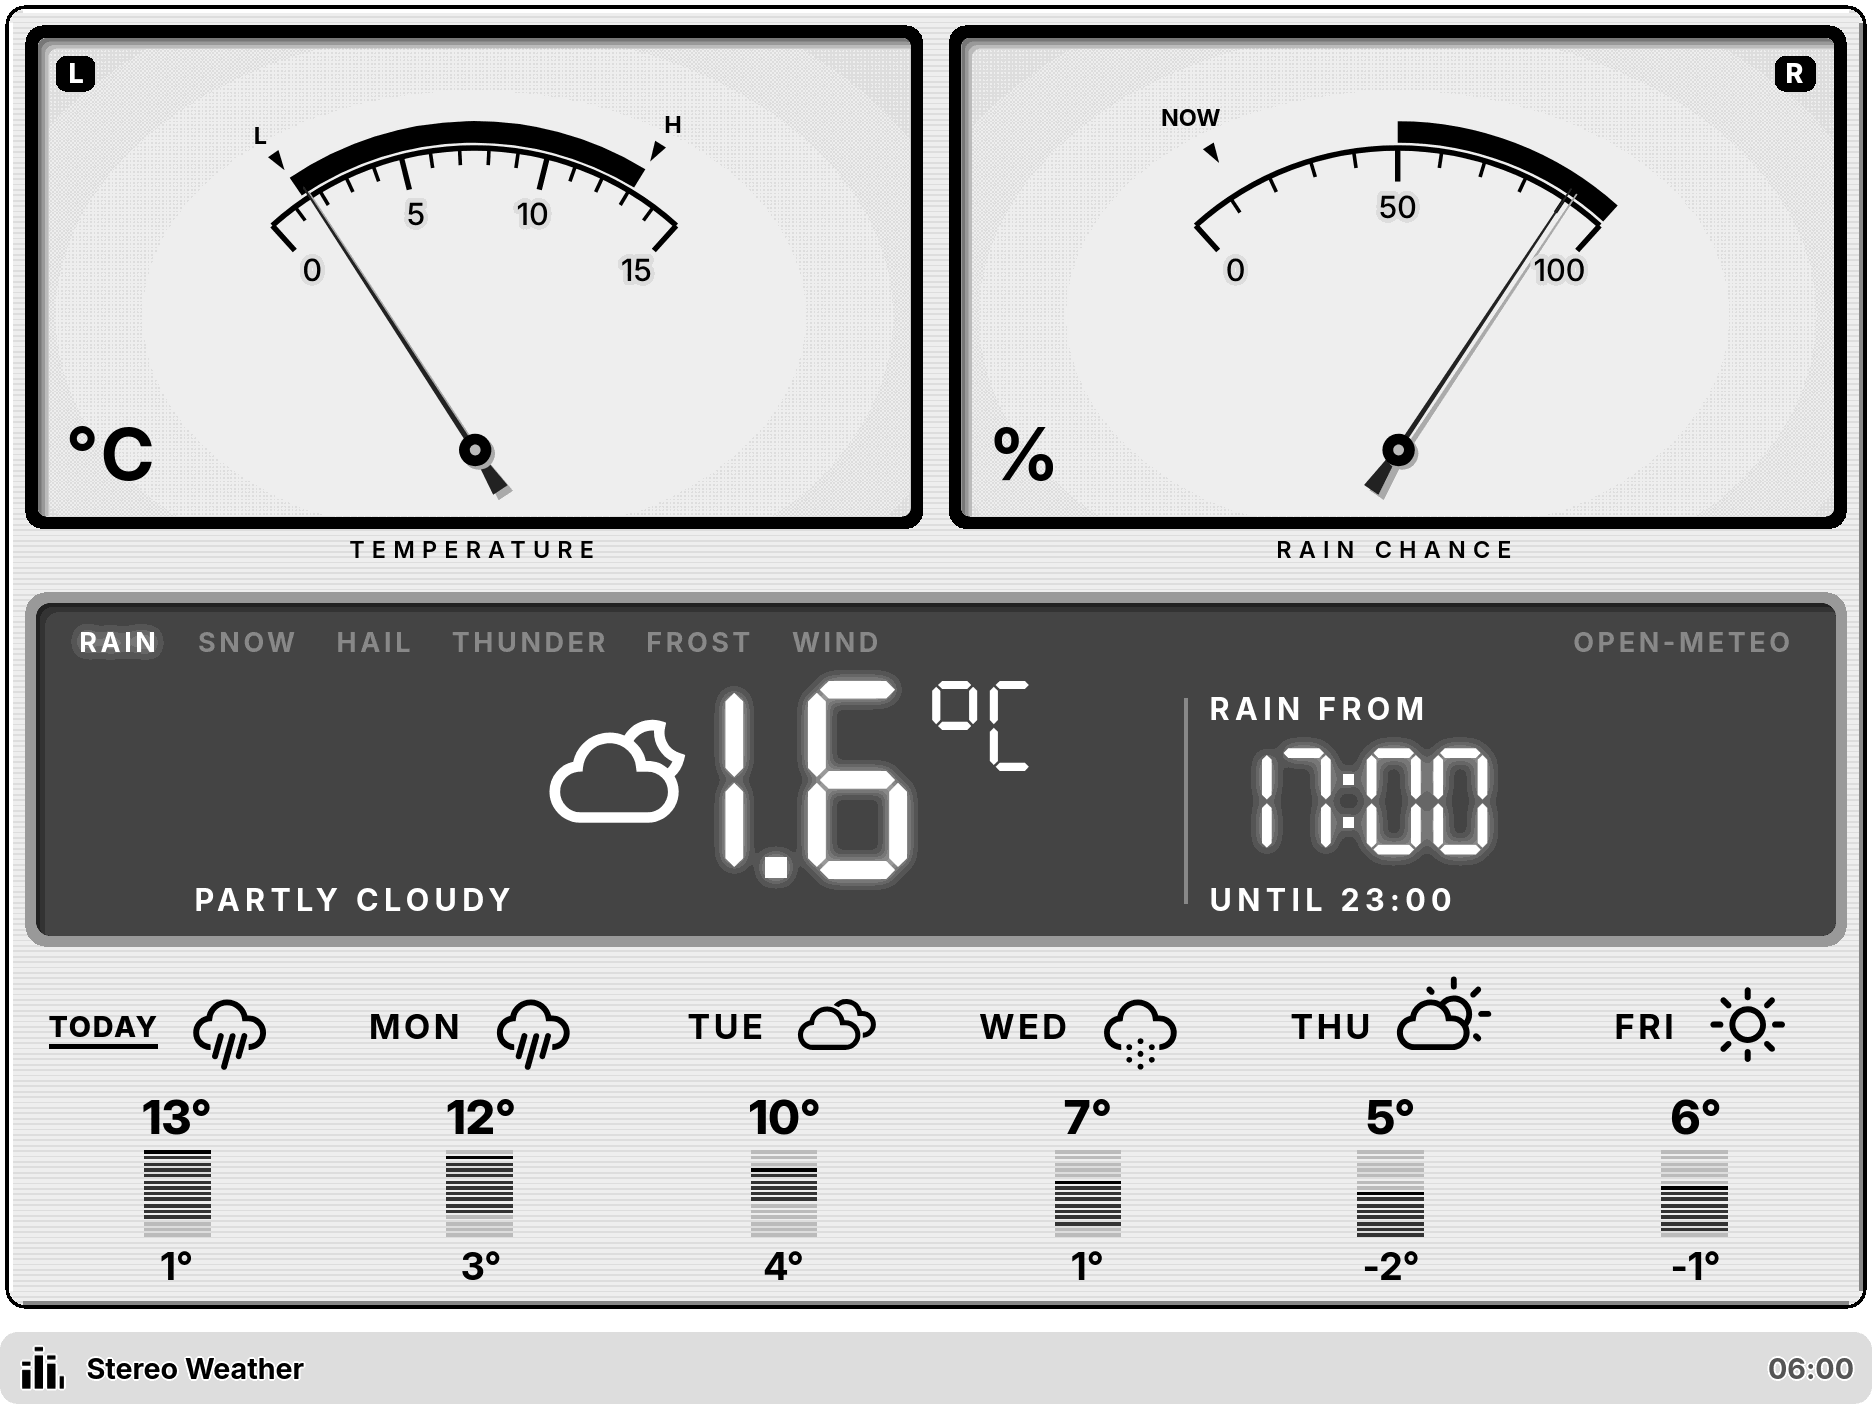
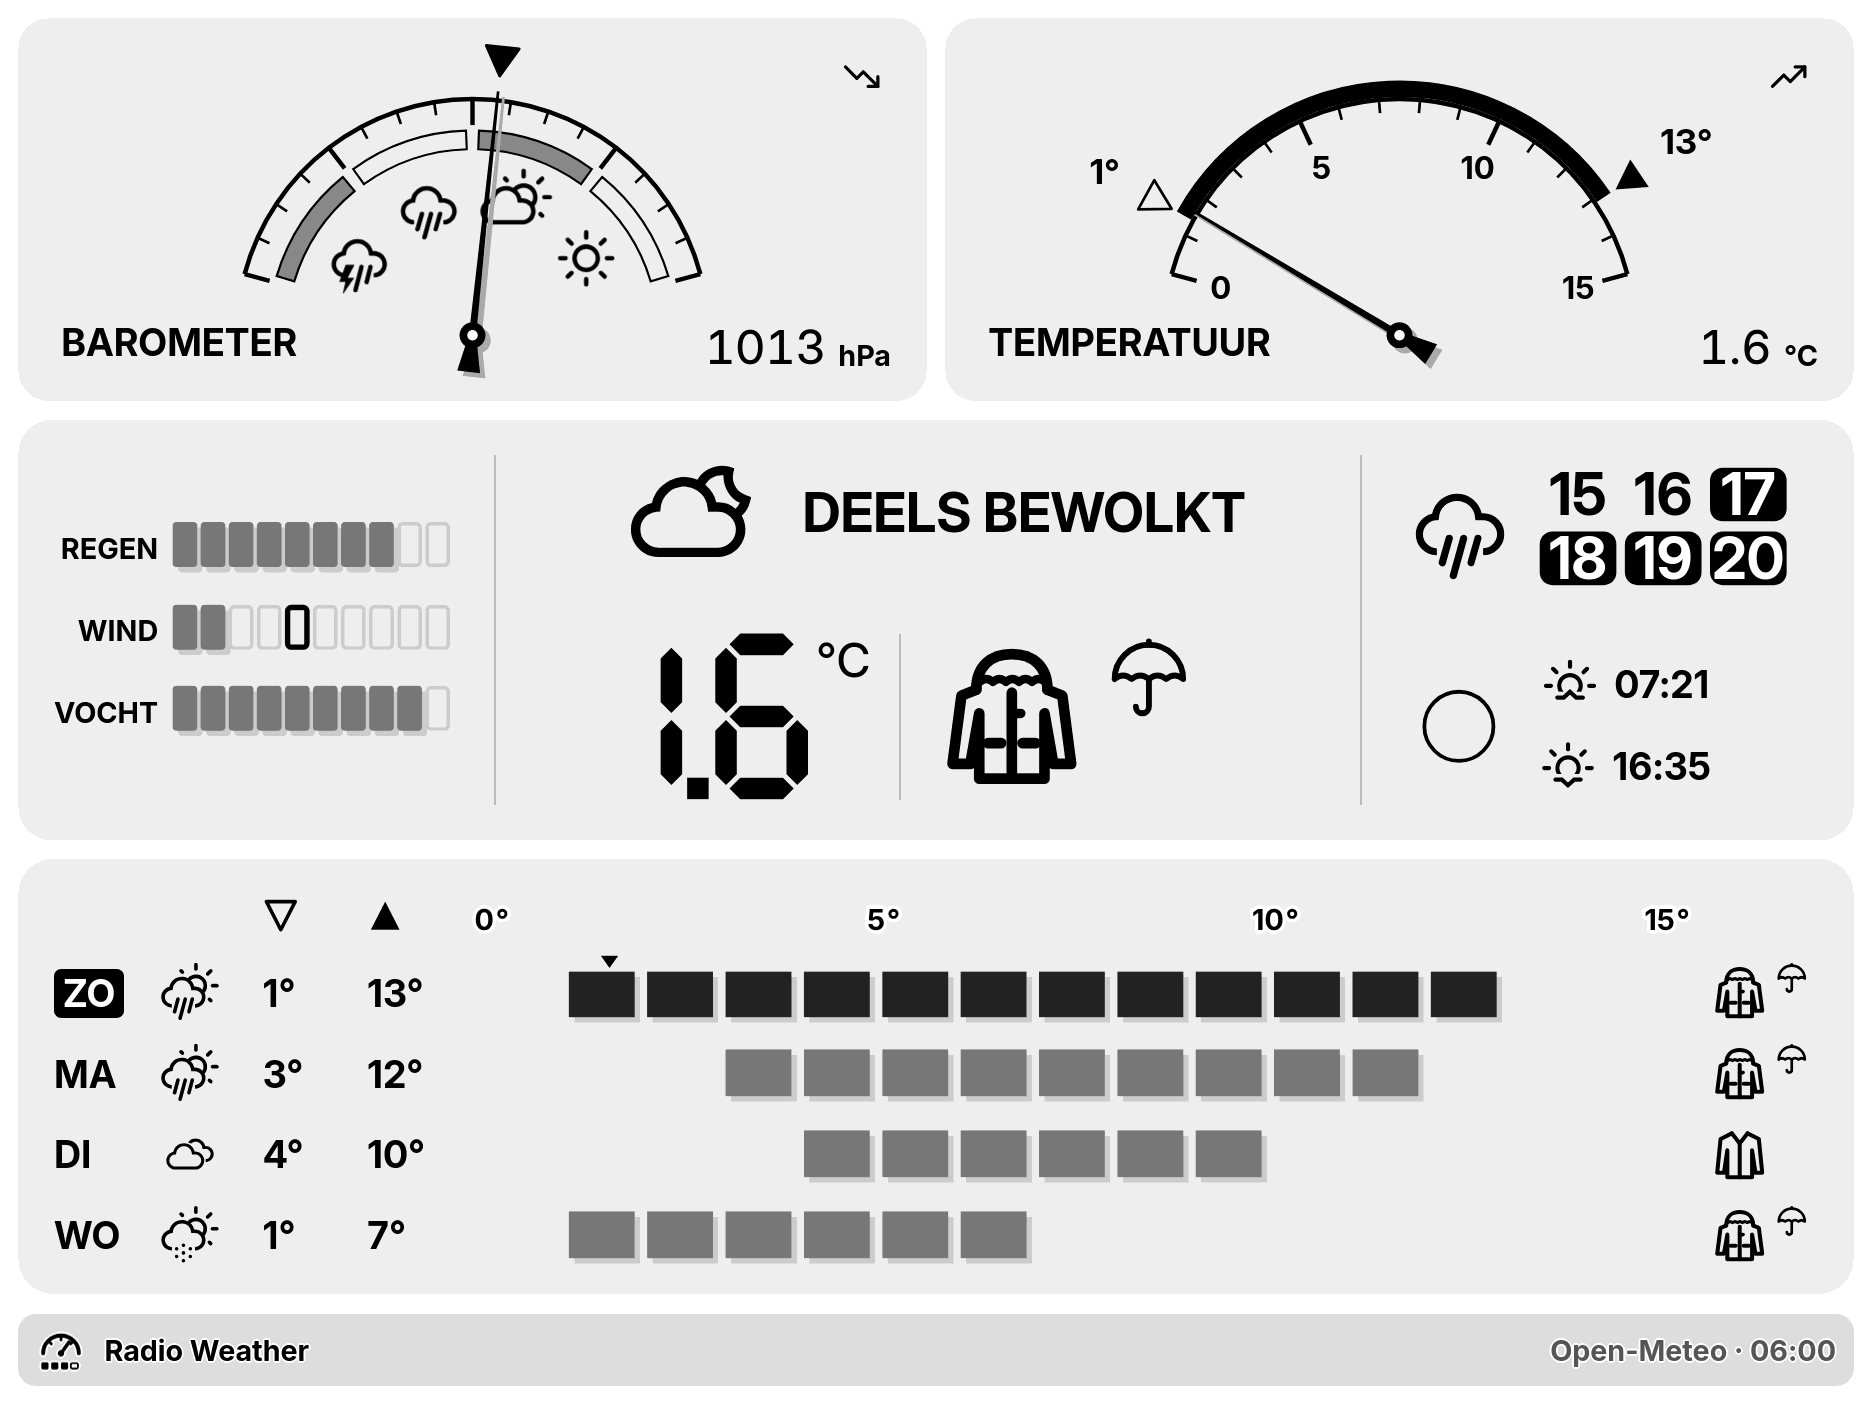
README: describe the Calm console, current settings and a new screenshot

diff --git a/README.md b/README.md
@@ -4,27 +4,29 @@
 
 ![Radio Weather on the TRMNL X](assets/screenshot.png)
 
-The weather as the front of an early-80s hi-fi receiver, for [TRMNL](https://trmnl.com) e-paper displays:
+A calm weather console in the style of an early-80s hi-fi receiver, for [TRMNL](https://trmnl.com) e-paper displays.
 
-- **L meter**: a needle shows the temperature now, between today's low and high.
-- **R meter**: a needle shows the chance of rain.
-- **Smoked-glass display**: the temperature in segment digits, humidity, UV and the time the rain starts. Warning lamps light for rain, snow, hail, thunder, frost, wind and high UV.
-- **Level bars**: one key per coming day with its icon, low and high.
+- **Dials** (TRMNL X): a barometer with the weather it points to, and a thermometer between today's low and high. A small arrow shows a rising or falling trend.
+- **Console**: the condition, the temperature in segment digits and what to wear (t-shirt, sweater, jacket or parka, plus umbrella, mittens or sunglasses when needed).
+- **Meters**: rain, wind, humidity, UV, air quality, pollen and pressure, only when they matter. Each shows the value now and the rest of today's range; a gust gets an outline.
+- **Rain calendar**: the coming hours lit when rain is expected; sunrise, sunset and the moon on dry days.
+- **Bottom strip**: the coming days (low, high, icon and what to wear) or the next 24 hours in 2-hour steps. Auto shows hours during the day and days after 18:00.
 
-Every element shows data. It is drawn for each view (full, half horizontal, half vertical, quadrant) and each panel: a warm lamp glow on colour screens, solid ink on BWRY, grey on the TRMNL X, and a night glass in dark mode.
+Drawn for each view (full, half horizontal, half vertical, quadrant), for 1-bit, 2-bit and 4-bit screens and dark mode. The language follows your TRMNL account.
 
 ### Settings
 
 | Setting | What it does |
 |---|---|
-| Location | City, postal code or latitude,longitude |
-| Temperature Unit | Celsius or Fahrenheit |
-| Days Shown | Day keys; Auto fits the screen |
-| Dial Span | How far ahead the rain meter looks |
-| Hide Title Bar | Hides the title bar on the full view |
-| Language | Override the TRMNL account language |
+| Location | Where the forecast is for |
+| Temperature unit | Celsius or Fahrenheit |
+| Time format | 24-hour or 12-hour |
+| Bottom strip | Days, hours, or auto (hours, days after 18:00) |
+| Hide title bar | Hides the title bar |
+| Indoor readings | Shows a TRMNL sensor's indoor temperature |
+| CO2 meter | Shows the CO2 meter from a TRMNL sensor |
 
-Data comes from [Open-Meteo](https://open-meteo.com); no key is needed.
+Weather data: [Open-Meteo](https://open-meteo.com).
 
 ## Development
 
@@ -33,7 +35,7 @@ Built with [trmnlp](https://github.com/usetrmnl/trmnlp).
 ```bash
 cd plugin
 trmnlp serve        # preview
-trmnlp test         # RSpec specs in plugin/tests
+SW_CASES="$(cat ../tools/render_check_cases.json)" SW_OUT=/tmp/rw trmnlp test ../tools/render_check_spec.rb   # render check, PNGs in /tmp/rw
 node ../test/model/run.js   # pure-logic tests of the weather model
 ruby ../tools/sync_trmnl_i18n.rb   # re-sync TRMNL's translations
 ```
